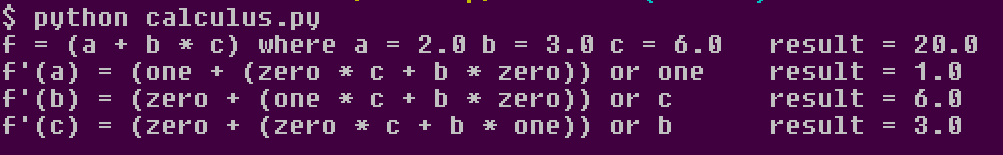
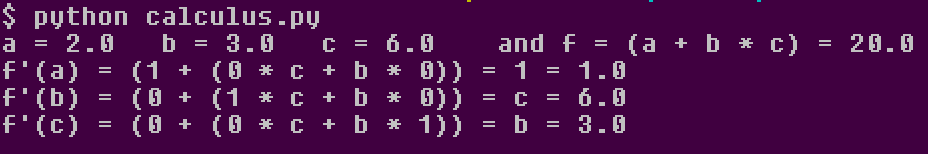
update README

diff --git a/calculus.py b/calculus.py
@@ -17,8 +17,8 @@ class Expr:
 
 # the variable class, base of any mathical expression
 class Var(Expr):
-	def __init__(self, value = 0.): # name, value):
-		self.name = None
+	def __init__(self, value = 0., name = None):
+		self.name = name
 		self.value = value
 	
 	def evaluate(self):
@@ -43,8 +43,8 @@ class Var(Expr):
 		return self.name
 
 # those sentinel values are for derived expressions and the simplification of expressions
-zero = Var(0.)
-one  = Var(1.)
+zero = Var(0., "0")
+one  = Var(1., "1")
 
 # addition
 class Add(Expr):
@@ -144,11 +144,10 @@ if __name__ == "__main__":
 	a, b, c = Var(2.), Var(3.), Var(6.) #d = Var(-1.)
 	
 	expr = a + b * c #** d
-
-	print("f =", expr, "where a =", a.value, "b =", b.value, "c =", c.value, "\tresult =", expr.evaluate())
-	print("f'(a) =", expr.d(a), "or", expr.d(a).simplify(), "\tresult =", expr.d(a).evaluate()) # 1 + (0 * 3 + 6 * 0)
-	print("f'(b) =", expr.d(b), "or", expr.d(b).simplify(), "\tresult =", expr.d(b).evaluate()) # 0 + (0 * 3 + 6 * 1)
-	print("f'(c) =", expr.d(c), "or", expr.d(c).simplify(), "\tresult =", expr.d(c).evaluate()) # 0 + (1 * 3 + 6 * 0)
+	print("a =", a.value, "  b =", b.value, "  c =", c.value, "   and f =", expr,"=", expr.evaluate())
+	print("f'(a) =", expr.d(a), "=", expr.d(a).simplify(), "=", expr.d(a).evaluate()) # 1 + (0 * 3 + 6 * 0)
+	print("f'(b) =", expr.d(b), "=", expr.d(b).simplify(), "=", expr.d(b).evaluate()) # 0 + (0 * 3 + 6 * 1)
+	print("f'(c) =", expr.d(c), "=", expr.d(c).simplify(), "=", expr.d(c).evaluate()) # 0 + (1 * 3 + 6 * 0)
 	#print("who's your daddy now ?")
 
 	# h = Mul(b,c)

diff --git a/README.md b/README.md
@@ -8,14 +8,14 @@ Supports addition, multiplication and partly exponents. Only about 80 effective 
 Example :  
 ``` python
 a, b, c = Var(2.), Var(3.), Var(6.)
-
-expr = a + b * c
-
-print("f =", expr, "where a =", a.value, "b =", b.value, "c =", c.value, "\tresult =", expr.evaluate())
-print("f'(a) =", expr.d(a), "or", expr.d(a).simplify(), "\tresult =", expr.d(a).evaluate()) # 1 + (0 * 3 + 6 * 0)
-print("f'(b) =", expr.d(b), "or", expr.d(b).simplify(), "\tresult =", expr.d(b).evaluate()) # 0 + (0 * 3 + 6 * 1)
-print("f'(c) =", expr.d(c), "or", expr.d(c).simplify(), "\tresult =", expr.d(c).evaluate()) # 0 + (1 * 3 + 6 * 0)
-#print("who's your daddy now ?")
+	
+	expr = a + b * c
+	
+	print("a =", a.value, "  b =", b.value, "  c =", c.value, "   and f =", expr,"=", expr.evaluate())
+	print("f'(a) =", expr.d(a), "=", expr.d(a).simplify(), "=", expr.d(a).evaluate()) # 1 + (0 * 3 + 6 * 0)
+	print("f'(b) =", expr.d(b), "=", expr.d(b).simplify(), "=", expr.d(b).evaluate()) # 0 + (0 * 3 + 6 * 1)
+	print("f'(c) =", expr.d(c), "=", expr.d(c).simplify(), "=", expr.d(c).evaluate()) # 0 + (1 * 3 + 6 * 0)
+	#print("who's your daddy now ?")
 ```  
 Result:    
 ![alt text](https://github.com/Lcbx/Calculus/blob/master/Capture.PNG "screenshot")
